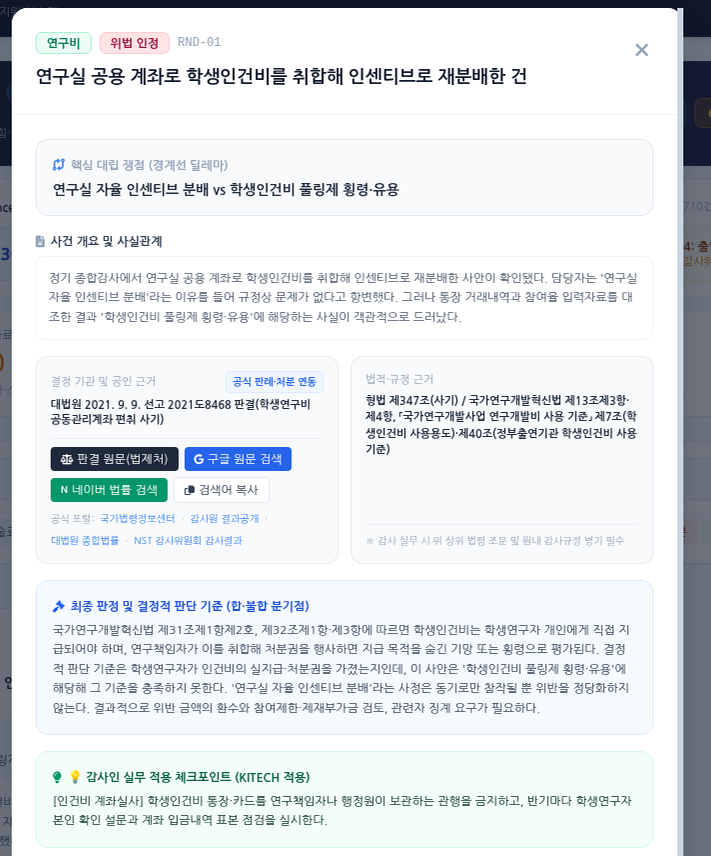
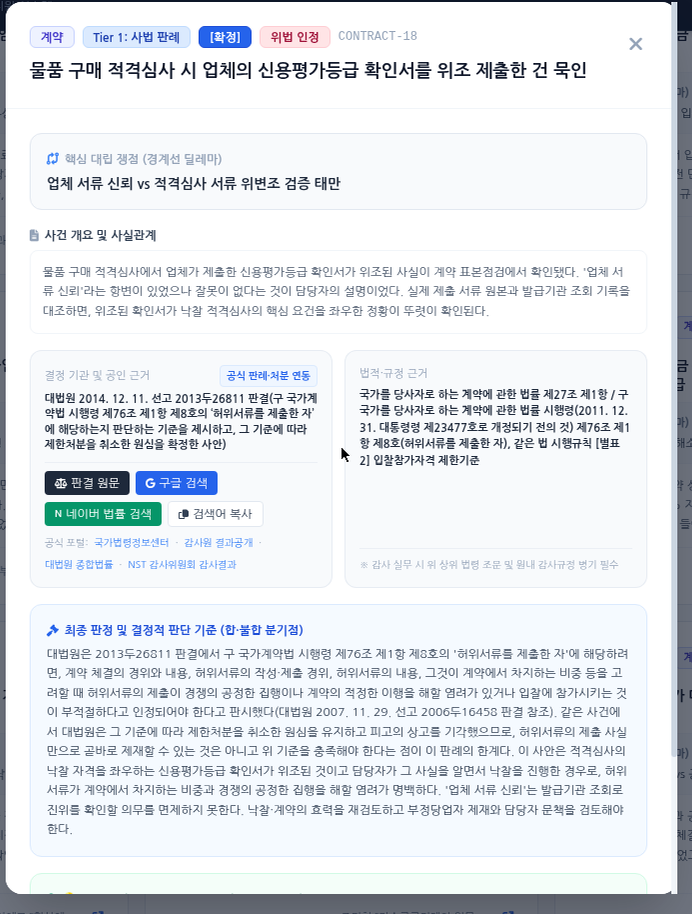
docs: 사용설명서 팝업 캡처를 개편 화면([확정] 배지·[근거 원문] 버튼)으로 갱신

Changed region(s): [[0.0, 0.0, 1.0, 1.0], [0.5159, 0.6075, 0.8801, 0.6379]]

diff --git a/guide.html b/guide.html
@@ -751,9 +751,9 @@
         <h4>① Tier 1 사례(사법 판례) — 첫 버튼이 [판결 원문(법제처)]</h4>
         <figure class="fig-portrait">
           <a href="./guide-img-04-modal-tier1.png" target="_blank" rel="noopener">
-            <img src="./guide-img-04-modal-tier1.png" alt="Tier 1 사례 RND-01 상세 팝업 — 6개 구역과 판결 원문·구글·네이버·검색어 복사 4개 버튼">
+            <img src="./guide-img-04-modal-tier1.png" alt="Tier 1 사례 CONTRACT-18 상세 팝업 — 확정 상태 배지와 판결 원문·구글·네이버·검색어 복사 4개 버튼">
           </a>
-          <figcaption><b>화면 4.</b> Tier 1 사례(<b>RND-01</b>) 팝업. 상단에 <b>Tier·[확정] 배지</b>, 하단에 <b>[판결 원문(법제처)]</b>을 포함한 <b>4개 버튼</b>이 보입니다. <span class="no-print">(클릭하면 원본 크기)</span></figcaption>
+          <figcaption><b>화면 4.</b> Tier 1 사례(<b>CONTRACT-18</b>) 팝업. 상단에 <b>Tier · [확정] 배지</b>, 하단에 <b>[판결 원문]</b>을 포함한 <b>4개 버튼</b>이 보입니다. <span class="no-print">(클릭하면 원본 크기)</span></figcaption>
         </figure>
 
 
